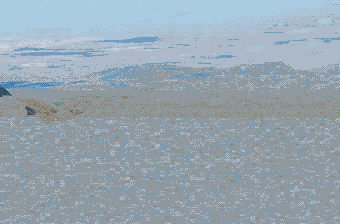
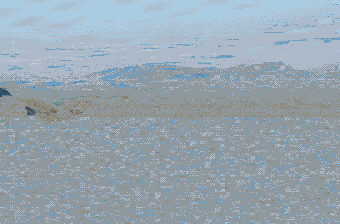
Hero cloud bank spans the whole world
With a ragged left end inside the desktop view, streaks crossing it split
when the bank slid. The bank now takes every streak, so it moves whole.

diff --git a/scripts/scene_art/hero.py b/scripts/scene_art/hero.py
@@ -2,14 +2,14 @@
 sky (opaque: the sky, the haze and the far desert plain; under the cloud streaks, the peaks and
 the near slopes it is a smooth haze fill, and below the ridge's top the plain runs on, so a pan
 or the cloud's slide never shows a ghost), cloud (the bank of cloud streaks around the peaks,
-from a ragged left end to the world's right edge; it runs on behind the peaks, and a shift hook
-slides it up to 40 px right, off the peak), peaks (the two peaks, solid from their tops down
-under the ridge), ridge (the near dark slopes, the brown hills and the dead tree). No sprites:
+across the whole world, so a streak is never split when the bank moves; it runs on behind the
+peaks, and a shift hook slides it up to 40 px right, off the peak), peaks (the two peaks, solid
+from their tops down under the ridge), ridge (the near dark slopes, the brown hills and the dead tree). No sprites:
 the haze shimmer is plotted by the act.
 
 Lines are found from the photo's colours (the ridge's top, the peaks' outline, the streaks); the
 few constants are photo px mapped with to_world."""
-import math, random
+import random
 from . import common as C
 from .common import KEY, lum, smooth_fill, tile_fill
 
@@ -20,8 +20,6 @@ PEAKS = [(1566, 1002), (1597, 983), (1605, 952), (1628, 933), (1655, 914), (1674
          (1932, 845), (1951, 837), (1966, 829), (1978, 822), (1993, 822), (2008, 833), (2028, 845), (2047, 856),
          (2066, 868), (2085, 879), (2097, 887), (2100, 887), (2100, 1002)]
 SKY_TOP = 800                         # photo y: the ridge's top is searched below this
-CLOUD_X0 = 1350                       # photo x: the cloud bank's ragged left end
-CLOUD_RAG = 16                        # world px the left end wanders
 TRAVEL = 40                           # px the cloud bank may slide right
 UNDER = 8                             # rows the peaks run on under the ridge
 
@@ -81,18 +79,15 @@ def build(world, render, to_world):
     ridge = bytearray(1 if i // W >= rt[i % W] else 0 for i in range(W * H))
 
     # ------------------------------------------------------------ cloud streaks
-    x0 = to_world(CLOUD_X0, 0)[0]
-    left = [x0 + CLOUD_RAG * (0.5 + 0.5 * math.sin(y / 3.7 + 1.9) * math.cos(y / 9.1)) + rng.randint(0, 3)
-            for y in range(H)]
     streak = bytearray(W * H)
     for y in range(H):
         for x in range(W):
             i = y * W + x
-            if x < left[y] or y >= rt[x] or pk[i]: continue
+            if y >= rt[x] or pk[i]: continue
             if is_streak(src[i]): streak[i] = 1
     streak = C.majority(streak, W, H, 1)
     for i in range(W * H):
-        if i % W < left[i // W] or pk[i] or ridge[i]: streak[i] = 0
+        if pk[i] or ridge[i]: streak[i] = 0
     streak = C.drop_specks(streak, W, H, 4)
 
     # ------------------------------------------------------------ sky: streaks, peaks and slopes removed
@@ -111,8 +106,8 @@ def build(world, render, to_world):
     cloud = [Q[i] if streak[i] else KEY for i in range(W * H)]
     # behind the peaks the streak pattern carries on (gaps and all), so the bank slides out from
     # behind them whole; sources: the bank in the open, at the same rows
-    behind = bytearray(1 if pk[i] and i // W < rt[i % W] and i % W >= left[i // W] else 0 for i in range(W * H))
-    open_ = lambda x, y: x >= left[y] and y < rt[x] and not pk[y * W + x] and not behind[y * W + x]
+    behind = bytearray(1 if pk[i] and i // W < rt[i % W] else 0 for i in range(W * H))
+    open_ = lambda x, y: y < rt[x] and not pk[y * W + x] and not behind[y * W + x]
     index_fill(cloud, W, H, behind, open_, rng)
     # under the ridge the peaks run on in their own rock, not the ridge's dark slope
     peak_img = world.copy()
